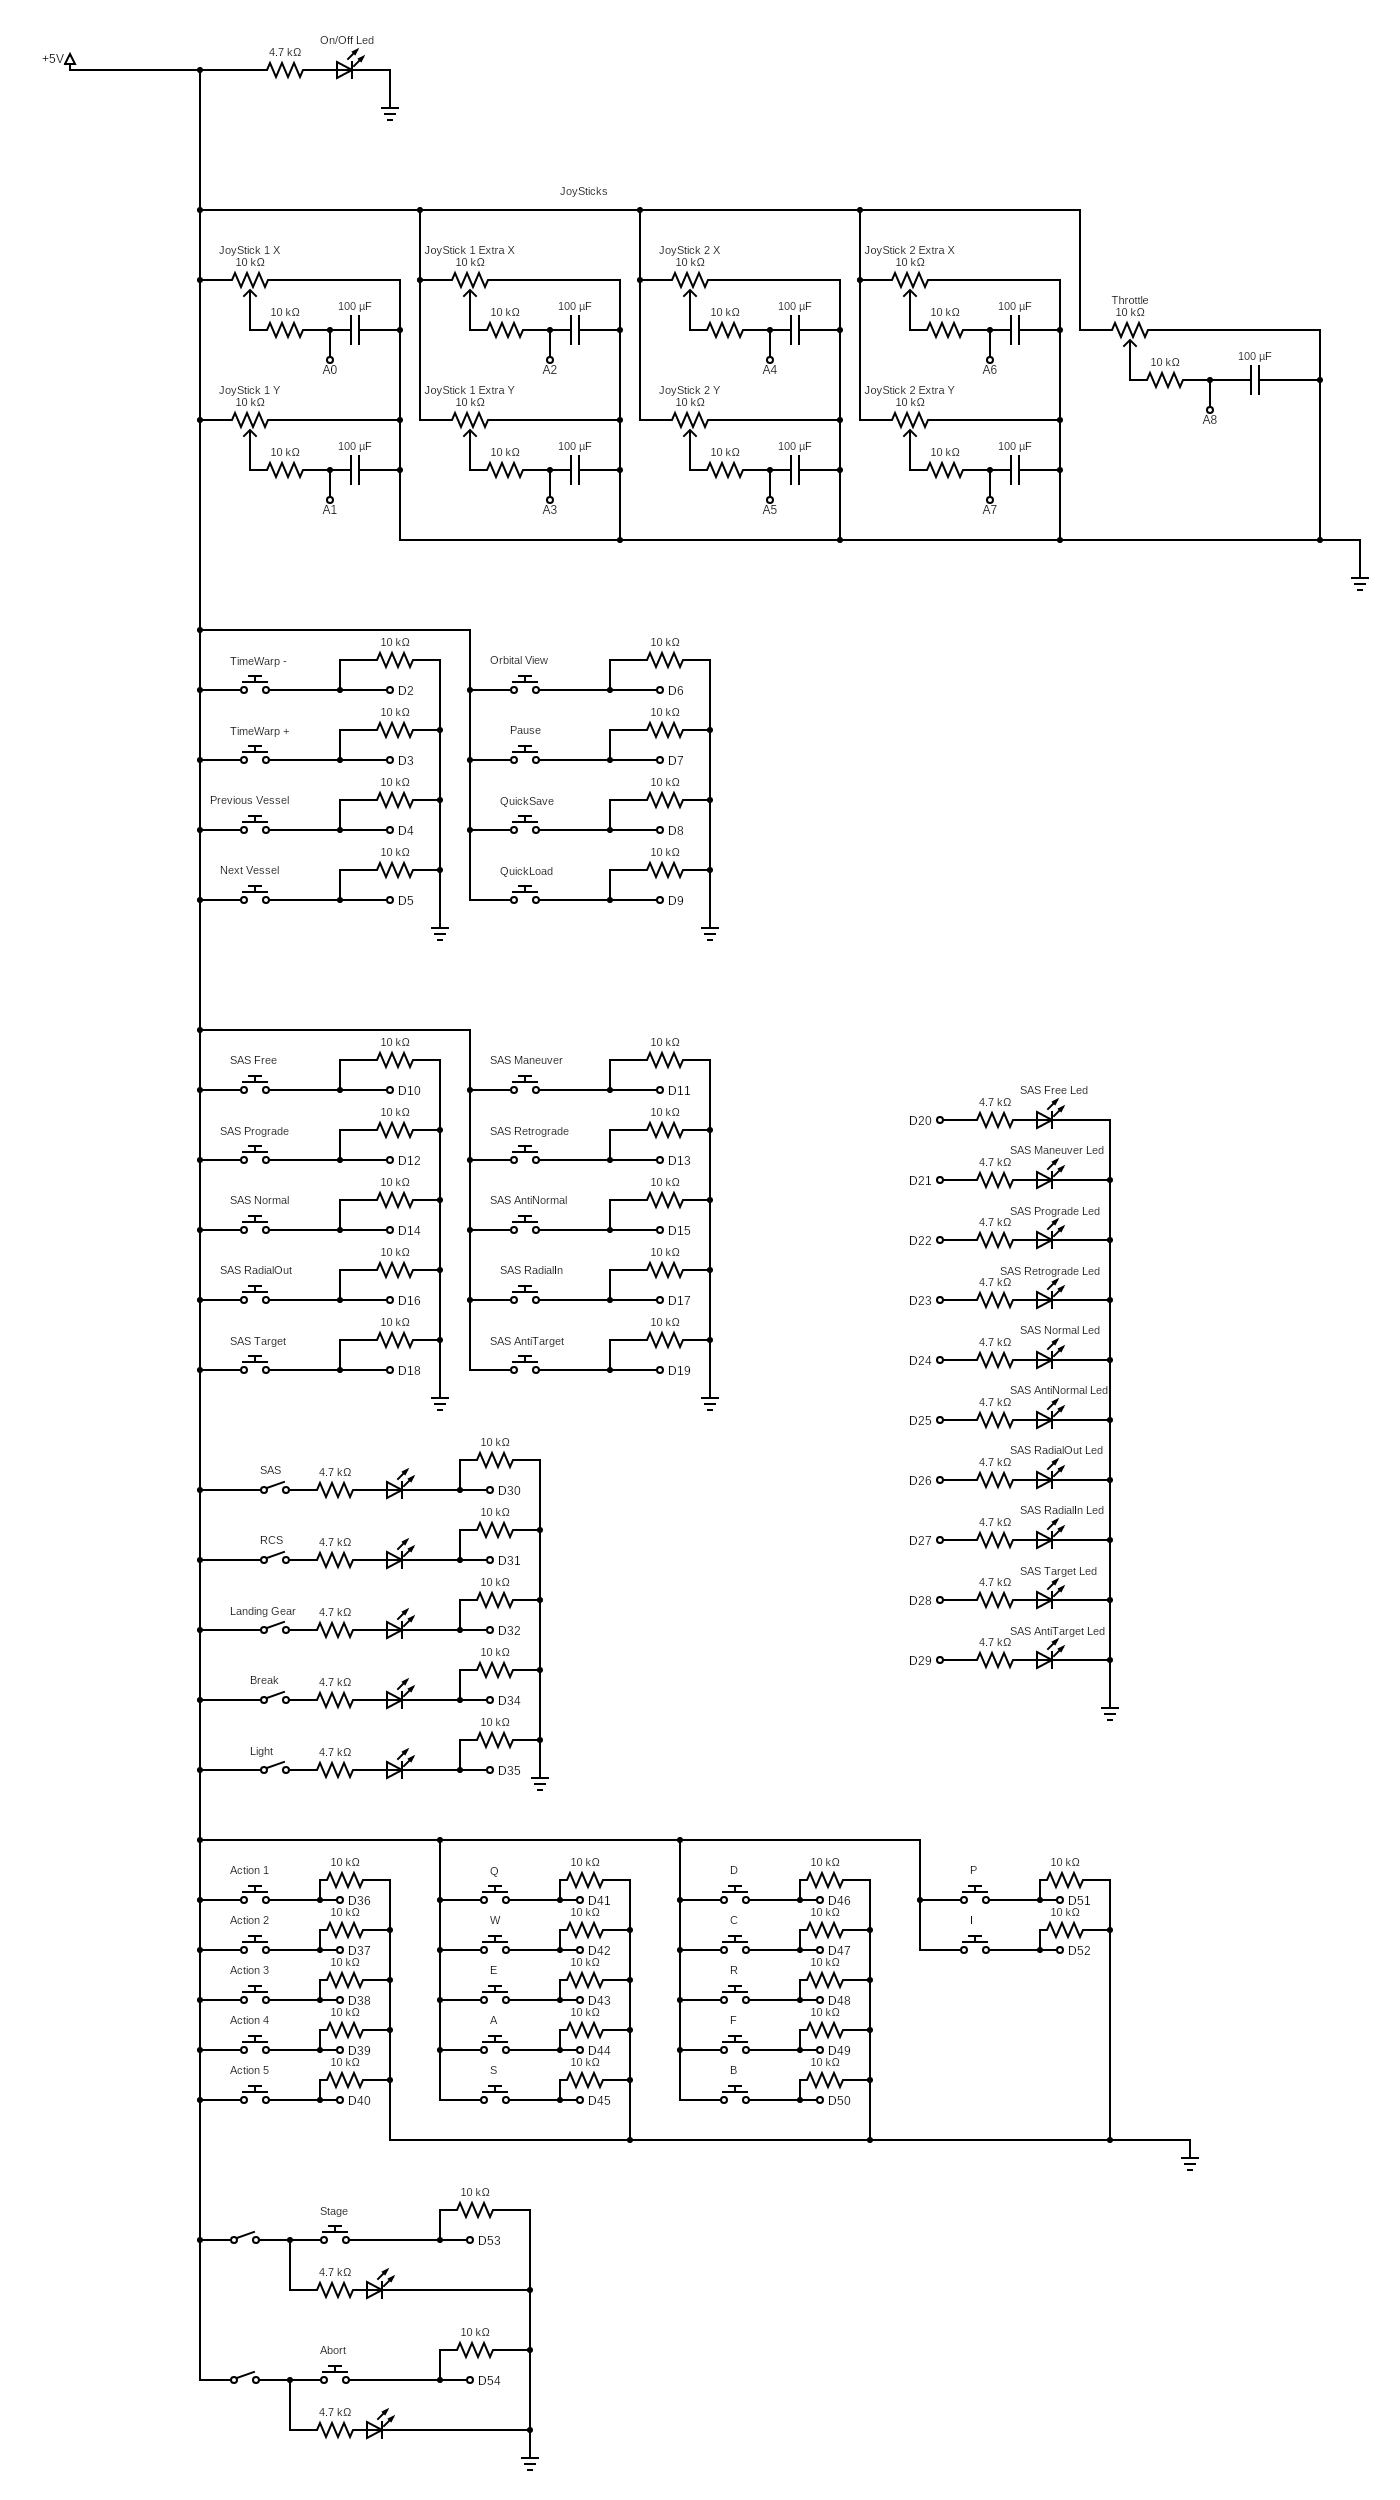
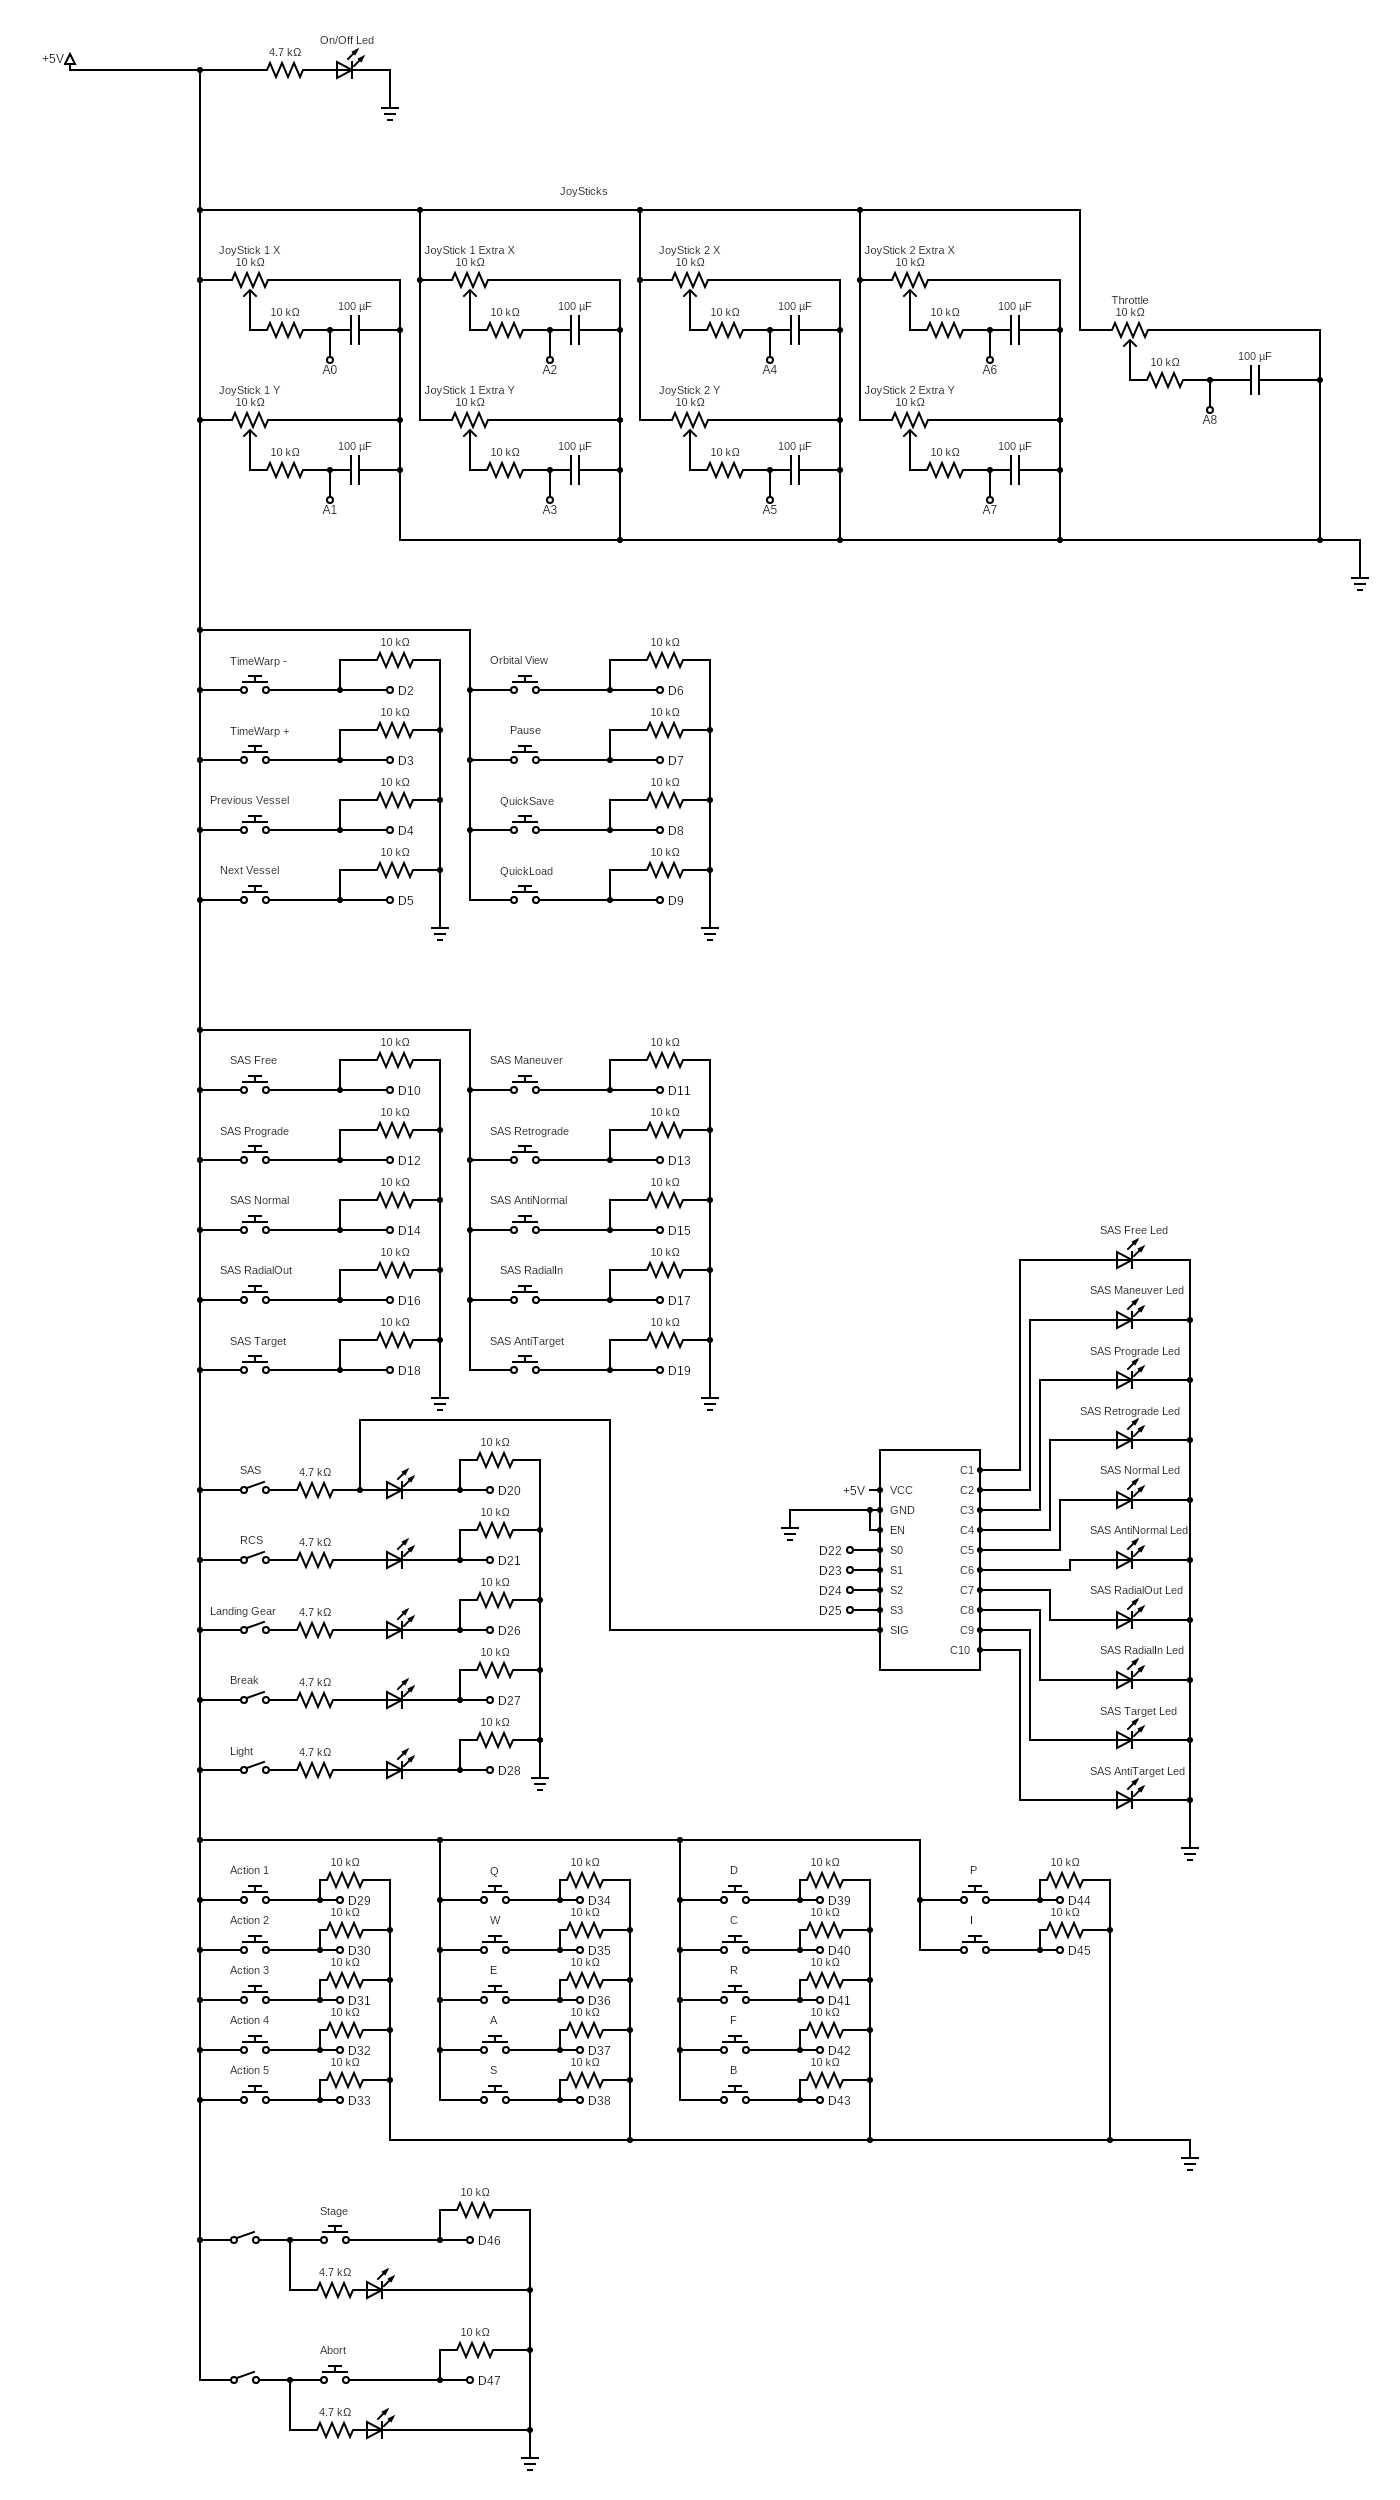
Use demux for SAS leds - update circuit and code

Changed region(s): [[0.645, 0.4368, 0.86, 0.7176], [0.1536, 0.5928, 0.2457, 0.7176], [0.5836, 0.5928, 0.645, 0.6552]]

diff --git a/KontrollerFirmware/src/KerbalKontroller/Clients/ArduinoSerialClient.cs b/KontrollerFirmware/src/KerbalKontroller/Clients/ArduinoSerialClient.cs
@@ -8,6 +8,7 @@ using System.Collections.Generic;
 using System.IO.Ports;
 using System.Linq;
 using command = KerbalKontroller.Resources.ArduinoCommands;
+using argument = KerbalKontroller.Resources.ArduinoArguments;
 
 namespace KerbalKontroller.Clients
 {
@@ -56,8 +57,7 @@ namespace KerbalKontroller.Clients
         {
             SetInputPins();
             SetOutputPins();
-            SetSASLedPins();
-            WriteBytes(command.Configured, command.Nop);
+            WriteBytes(command.Configured, argument.NoArg);
         }
 
         private void WriteBytes(byte byte1, byte byte2)
@@ -91,28 +91,20 @@ namespace KerbalKontroller.Clients
                 WriteBytes(command.Output, pin);
         }
 
-        private void SetSASLedPins()
-        {
-            var sasLedPins = GetDigitalPins(pinConfiguration, PinModes.SASLeds);
-
-            foreach (var pin in sasLedPins)
-                WriteBytes(command.OutputSASLeds, pin);
-        }
-
         private IDictionary<SASModes, byte> CreateSASModeToLedPinConversion()
         {
             return new Dictionary<SASModes, byte>()
             {
-                { SASModes.Free, pinConfiguration.SASFreeLed },
-                { SASModes.Maneuver, pinConfiguration.SASManeuverLed },
-                { SASModes.Prograde, pinConfiguration.SASProgradeLed },
-                { SASModes.Retrograde, pinConfiguration.SASRetrogradeLed },
-                { SASModes.RadialIn, pinConfiguration.SASRadialInLed },
-                { SASModes.RadialOut, pinConfiguration.SASRadialOutLed },
-                { SASModes.Normal, pinConfiguration.SASNormalLed },
-                { SASModes.AntiNormal, pinConfiguration.SASAntiNormalLed },
-                { SASModes.Target, pinConfiguration.SASTargetLed },
-                { SASModes.AntiTarget, pinConfiguration.SASAntiTargetLed }
+                { SASModes.Free, argument.FreeLed },
+                { SASModes.Maneuver, argument.ManeuverLed },
+                { SASModes.Prograde, argument.ProgradeLed },
+                { SASModes.Retrograde, argument.RetrogradeLed },
+                { SASModes.RadialOut, argument.RadialOutLed },
+                { SASModes.RadialIn, argument.RadialInLed },
+                { SASModes.Normal, argument.NormalLed },
+                { SASModes.AntiNormal, argument.AntiNormalLed },
+                { SASModes.Target, argument.TargetLed },
+                { SASModes.AntiTarget, argument.AntiTargetLed }
             };
         }
 

diff --git a/KontrollerFirmware/src/KerbalKontroller/Resources/ArduinoCommands.cs b/KontrollerFirmware/src/KerbalKontroller/Resources/ArduinoCommands.cs
@@ -5,8 +5,22 @@
         public static byte Nop => 0x00;
         public static byte Input => 0x01;
         public static byte Output => 0x02;
-        public static byte OutputSASLeds => 0x03;
         public static byte Configured => 0x10;
         public static byte SetSASLed => 0x20;
+    }
+
+    public static class ArduinoArguments
+    {
+        public static byte NoArg => 0x00;
+        public static byte FreeLed => 0x01;
+        public static byte ManeuverLed => 0x02;
+        public static byte ProgradeLed => 0x03;
+        public static byte RetrogradeLed => 0x04;
+        public static byte NormalLed => 0x05;
+        public static byte AntiNormalLed => 0x06;
+        public static byte RadialOutLed => 0x07;
+        public static byte RadialInLed => 0x08;
+        public static byte TargetLed => 0x09;
+        public static byte AntiTargetLed => 0x0A;
     }
 }

diff --git a/ArduinoKode/header.h b/ArduinoKode/header.h
@@ -6,7 +6,5 @@ typedef struct ControllerPin {
 } ControllerPin;
 
 void AddInputPin(byte pin);
-void AddSASLeds(byte pin);
-void TurnSASLed(byte pin);
 int GetPinValue(byte pin);
 void ReadSerial();

diff --git a/KontrollerFirmware/src/KerbalKontroller/Resources/PinModes.cs b/KontrollerFirmware/src/KerbalKontroller/Resources/PinModes.cs
@@ -3,7 +3,6 @@
     public enum PinModes
     {
         Input,
-        Output,
-        SASLeds
+        Output
     }
 }
